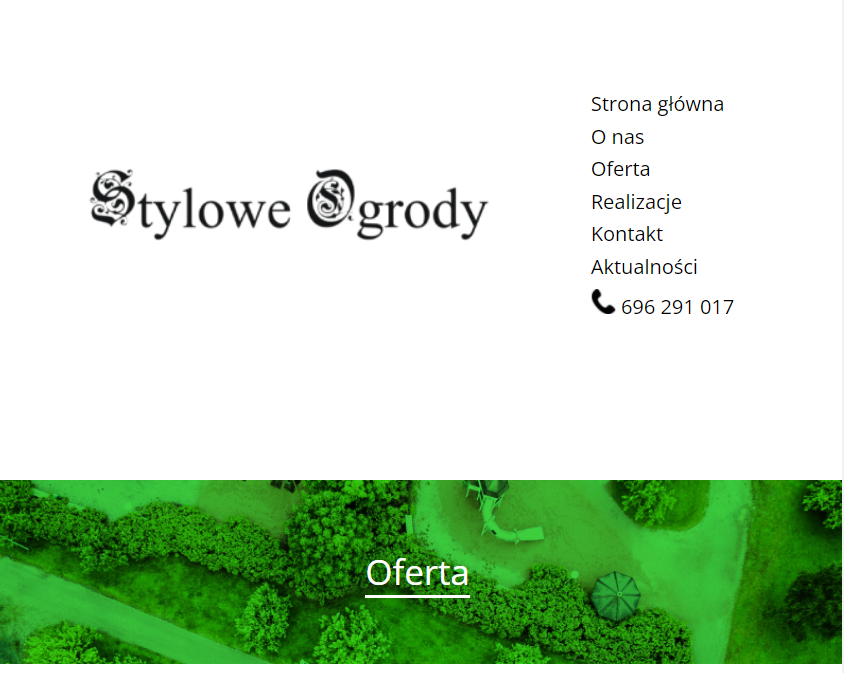
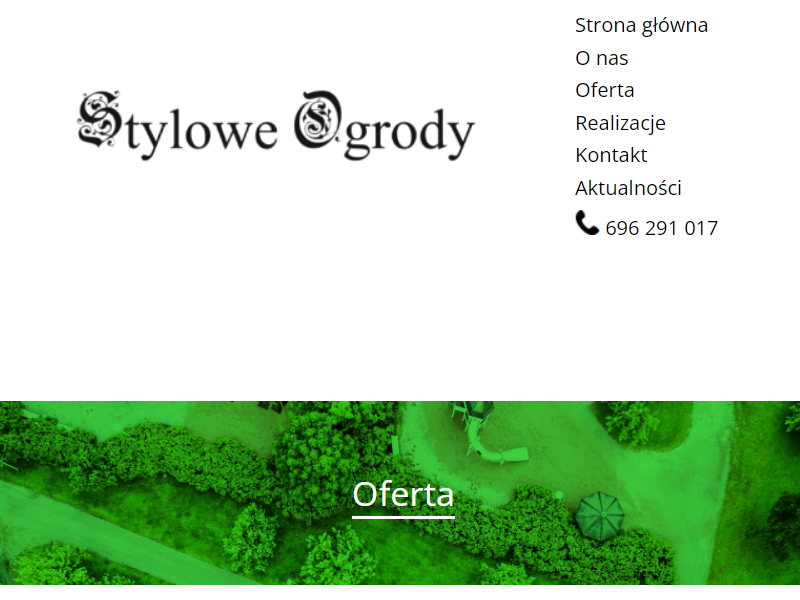
All images have img-fluid class as before. All images have size 800x600 - it is looks quite fine. One problem: in the second portolio is on the right not on the left.

diff --git a/index.html b/index.html
@@ -527,7 +527,7 @@
               <div class="portfolio-wrap">
                 <img
                   src="assets/img/portfolio/portfolio-6.PNG"
-                  class="portfolio-img"
+                  class="img-fluid"
                   alt=""
                 />
                 <div class="portfolio-links">
@@ -549,7 +549,7 @@
               <div class="portfolio-wrap">
                 <img
                   src="assets/img/portfolio/portfolio-5.PNG"
-                  class="portfolio-img"
+                  class="img-fluid"
                   alt=""
                 />
                 <div class="portfolio-links">
@@ -571,7 +571,7 @@
               <div class="portfolio-wrap">
                 <img
                   src="assets/img/portfolio/portfolio-4.PNG"
-                  class="portfolio-img"
+                  class="img-fluid"
                   alt=""
                 />
                 <div class="portfolio-links">
@@ -593,7 +593,7 @@
               <div class="portfolio-wrap">
                 <img
                   src="assets/img/portfolio/portfolio-3.PNG"
-                  class="portfolio-img"
+                  class="img-fluid"
                   alt=""
                 />
                 <div class="portfolio-links">
@@ -615,7 +615,7 @@
               <div class="portfolio-wrap">
                 <img
                   src="assets/img/portfolio/portfolio-2.PNG"
-                  class="portfolio-img"
+                  class="img-fluid"
                   alt=""
                 />
                 <div class="portfolio-links">
@@ -637,7 +637,7 @@
               <div class="portfolio-wrap">
                 <img
                   src="assets/img/portfolio/portfolio-1.PNG"
-                  class="portfolio-img"
+                  class="img-fluid"
                   alt=""
                 />
                 <div class="portfolio-links">
